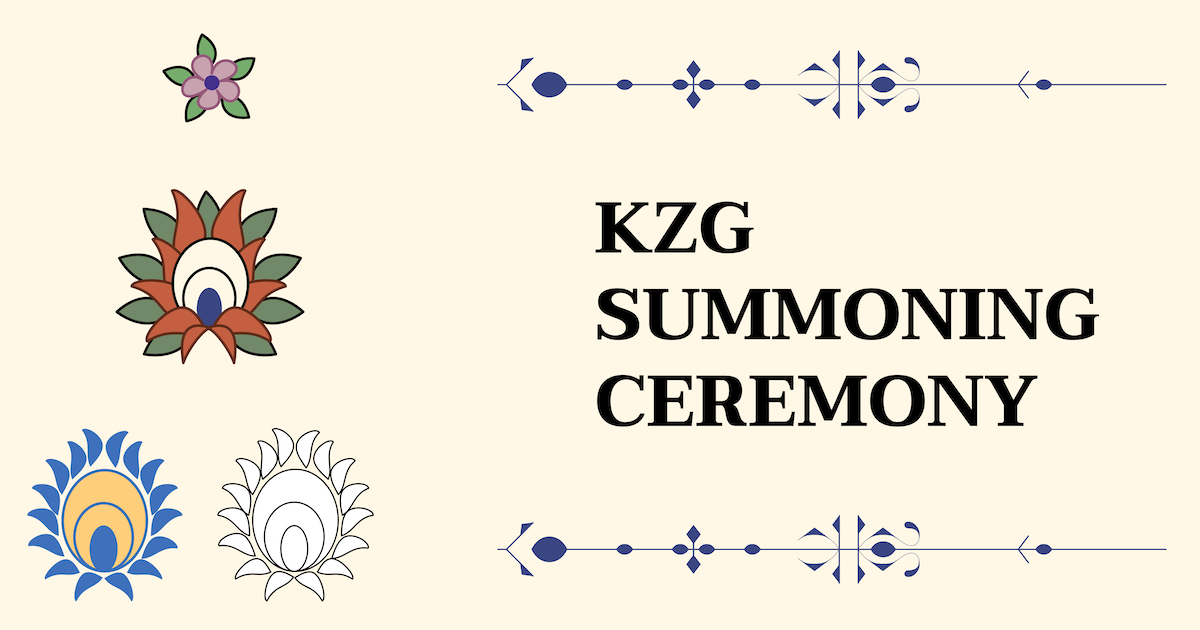
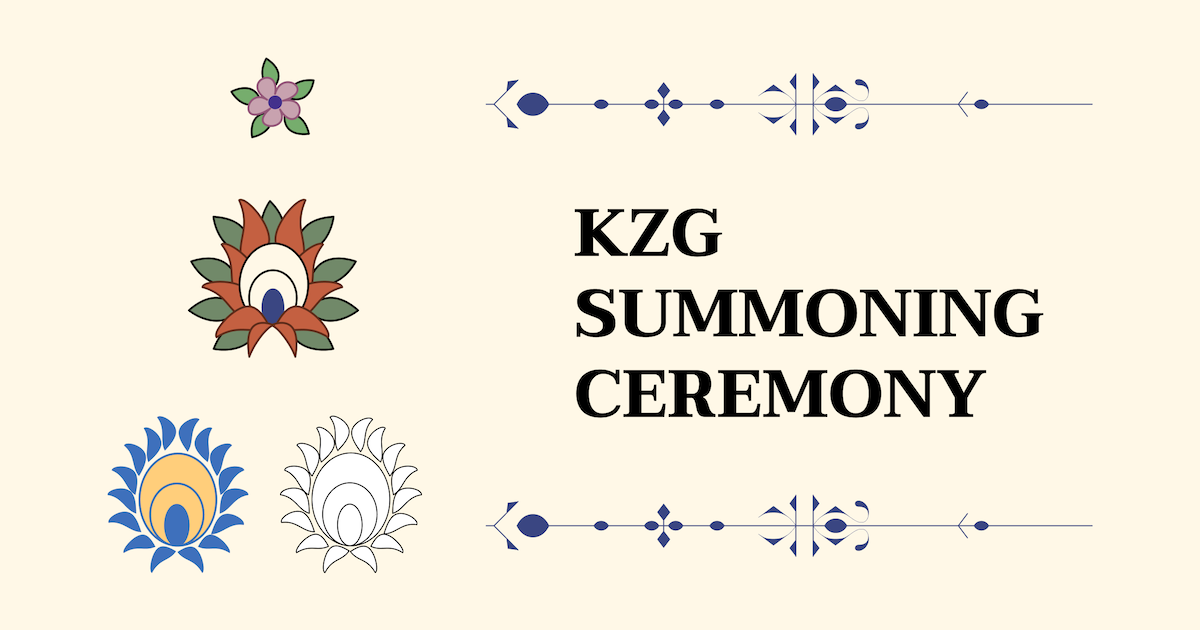
Updates OG image and description

diff --git a/public/index.html b/public/index.html
@@ -15,7 +15,7 @@
     />
     <title>KZG Summoning Ceremony</title>
     <meta name='title' content='KZG Summoning Ceremony' />
-    <meta name='description' content='Help secure Danksharding (EIP-4844) by participating now in the Ethereum KZG Summoning Ceremony.' />
+    <meta name='description' content='Add your randomness to the KZG Summoning Ceremony to help scale Ethereum!' />
     <meta name='application-name' content='KZG Summoning Ceremony' />
     <meta name='image' content='https://ceremony.ethereum.org/og-image.png' />
     <!-- Twitter -->
@@ -24,7 +24,7 @@
     <meta name='twitter:image' content='https://ceremony.ethereum.org/og-image.png#' />
     <!-- OpenGraph -->
     <meta property='og:title' content='KZG Summoning Ceremony' />
-    <meta property='og:description' content='Help secure Danksharding (EIP-4844) by participating now in the Ethereum KZG Summoning Ceremony.' />
+    <meta property='og:description' content='Add your randomness to the KZG Summoning Ceremony to help scale Ethereum!' />
     <meta property='og:type' content='website' />
     <meta property='og:site_name' content='KZG Summoning Ceremony'></meta>
     <meta property='og:url' content='https://ceremony.ethereum.org' />
